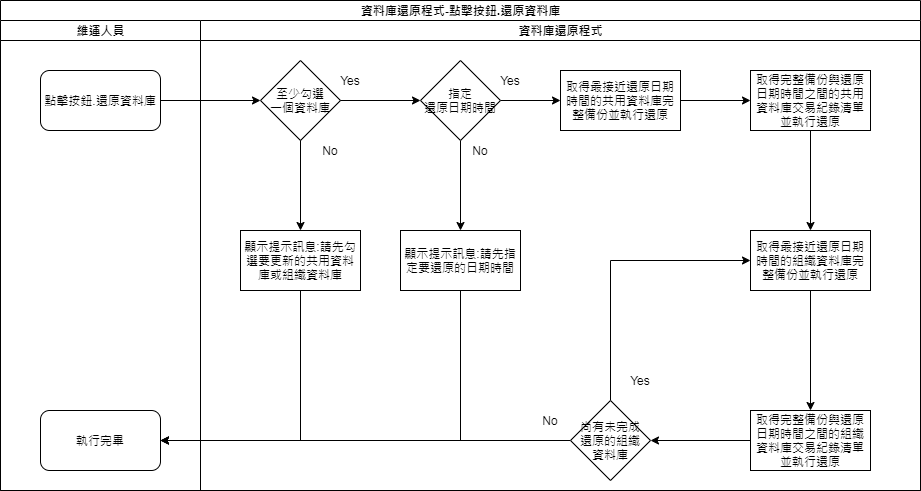
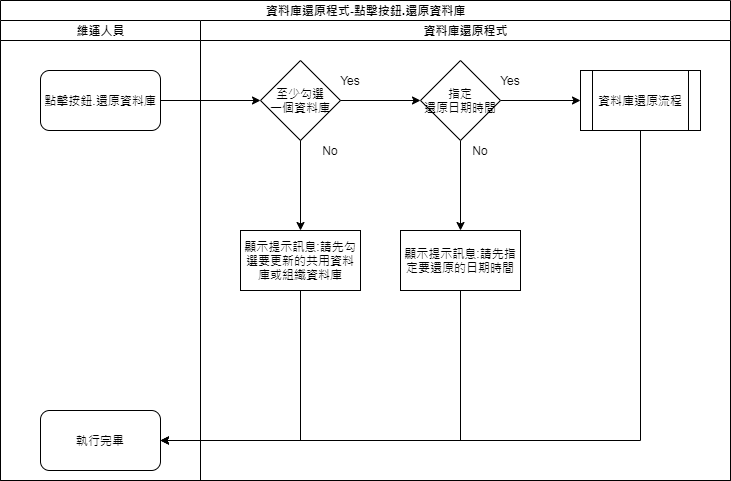
資料庫還原程式 SA文件

diff --git a/asus/ASUSMaintainTool/DBRestore/SA/README.md b/asus/ASUSMaintainTool/DBRestore/SA/README.md
@@ -24,7 +24,11 @@
                 * 若未指定則跳提示訊息 : 請先指定要還原的日期時間
             * 依據以下順序逐一進行資料庫還原
                 * 共用資料庫
+                    * 若資料庫還原失敗則跳錯誤訊息 : 共用資料庫還原失敗 : 錯誤原因
+                    * 失敗則中止此次還原的後續動作
                 * 組織資料庫
+                    * 若資料庫還原失敗僅顯示錯誤訊息在欄位.執行結果說明
+                    * 失敗則執行下一個組織資料庫的還原
             * 還原資料庫的方式如下
                 * 依據指定的還原日期時間找到最接近的完整備份檔案並進行還原
                 * 依序還原完整備份檔案 ~ 指定還原日期時間之間的交易紀錄備份檔
@@ -77,8 +81,13 @@
 
     ![資料庫還原程式-點擊按鈕.還原資料庫]
 
+    * 資料庫還原流程
+
+    ![資料庫還原程式-資料庫還原流程]
+
 [畫面]:attachment/畫面.png "畫面"
 [資料庫還原程式-開啟畫面]:attachment/資料庫還原程式-開啟畫面.png "資料庫還原程式-開啟畫面"
 [資料庫還原程式-點擊欄位.還原日期時間]:attachment/資料庫還原程式-點擊欄位.還原日期時間.png "資料庫還原程式-點擊欄位.還原日期時間"
 [取消勾選組織資料庫]:attachment/取消勾選組織資料庫.png "取消勾選組織資料庫"
 [資料庫還原程式-點擊按鈕.還原資料庫]:attachment/資料庫還原程式-點擊按鈕.還原資料庫.png "資料庫還原程式-點擊按鈕.還原資料庫"
+[資料庫還原程式-資料庫還原流程]:attachment/資料庫還原程式-資料庫還原流程.png "資料庫還原程式-資料庫還原流程"
